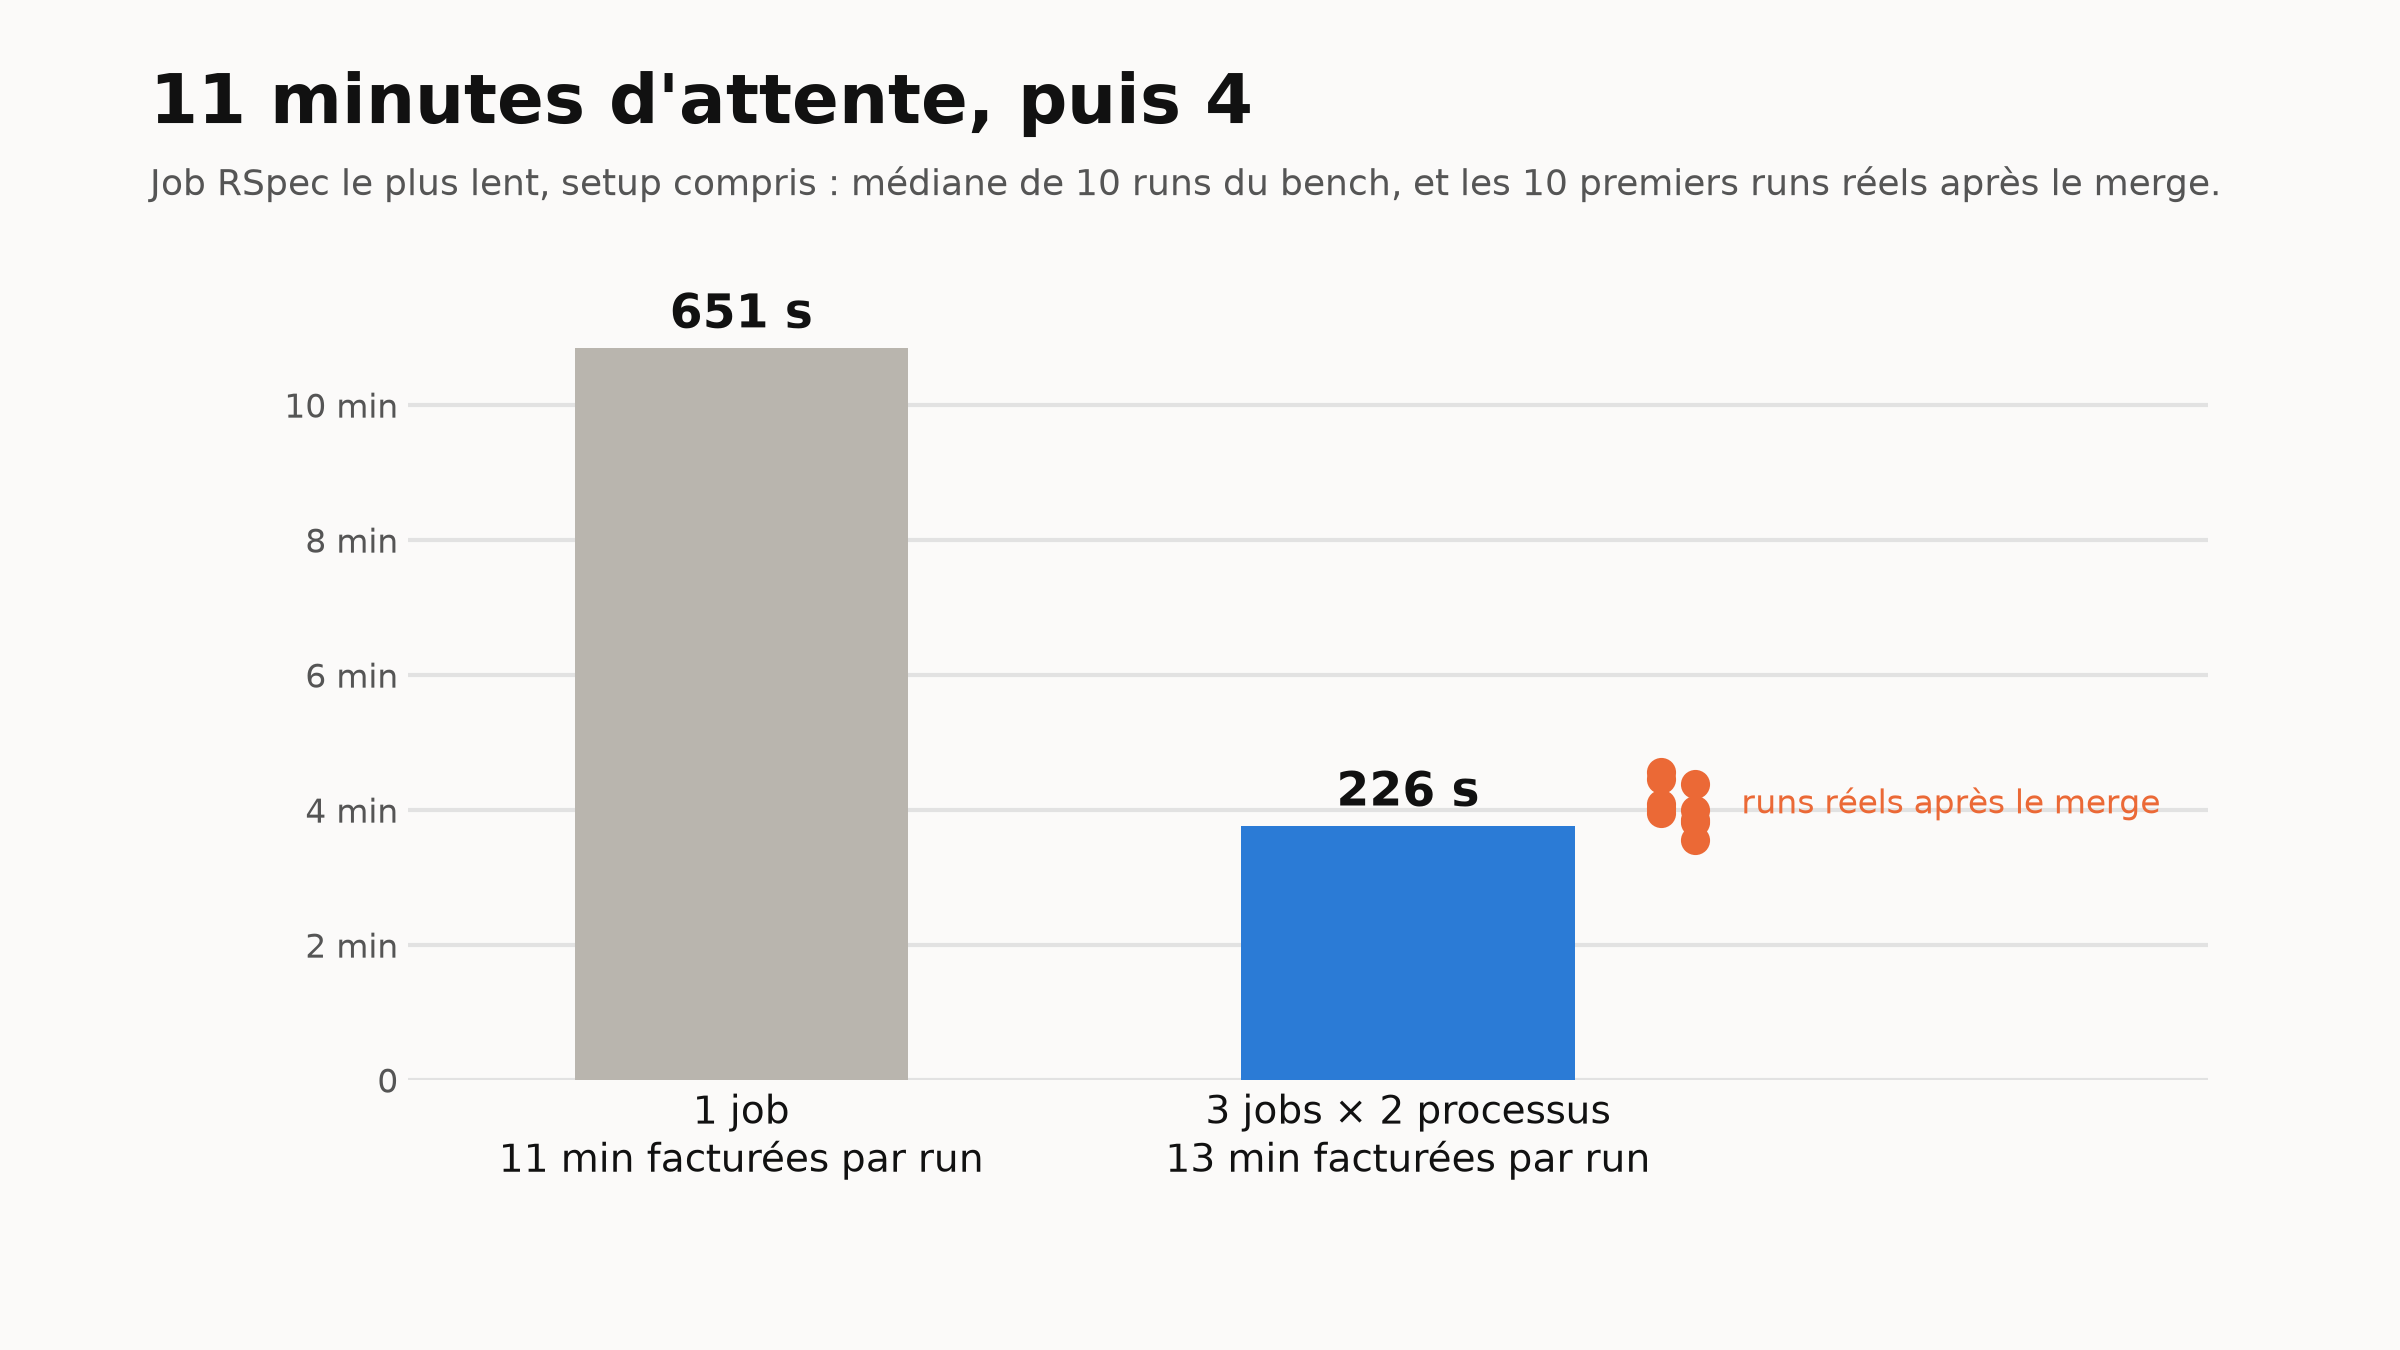
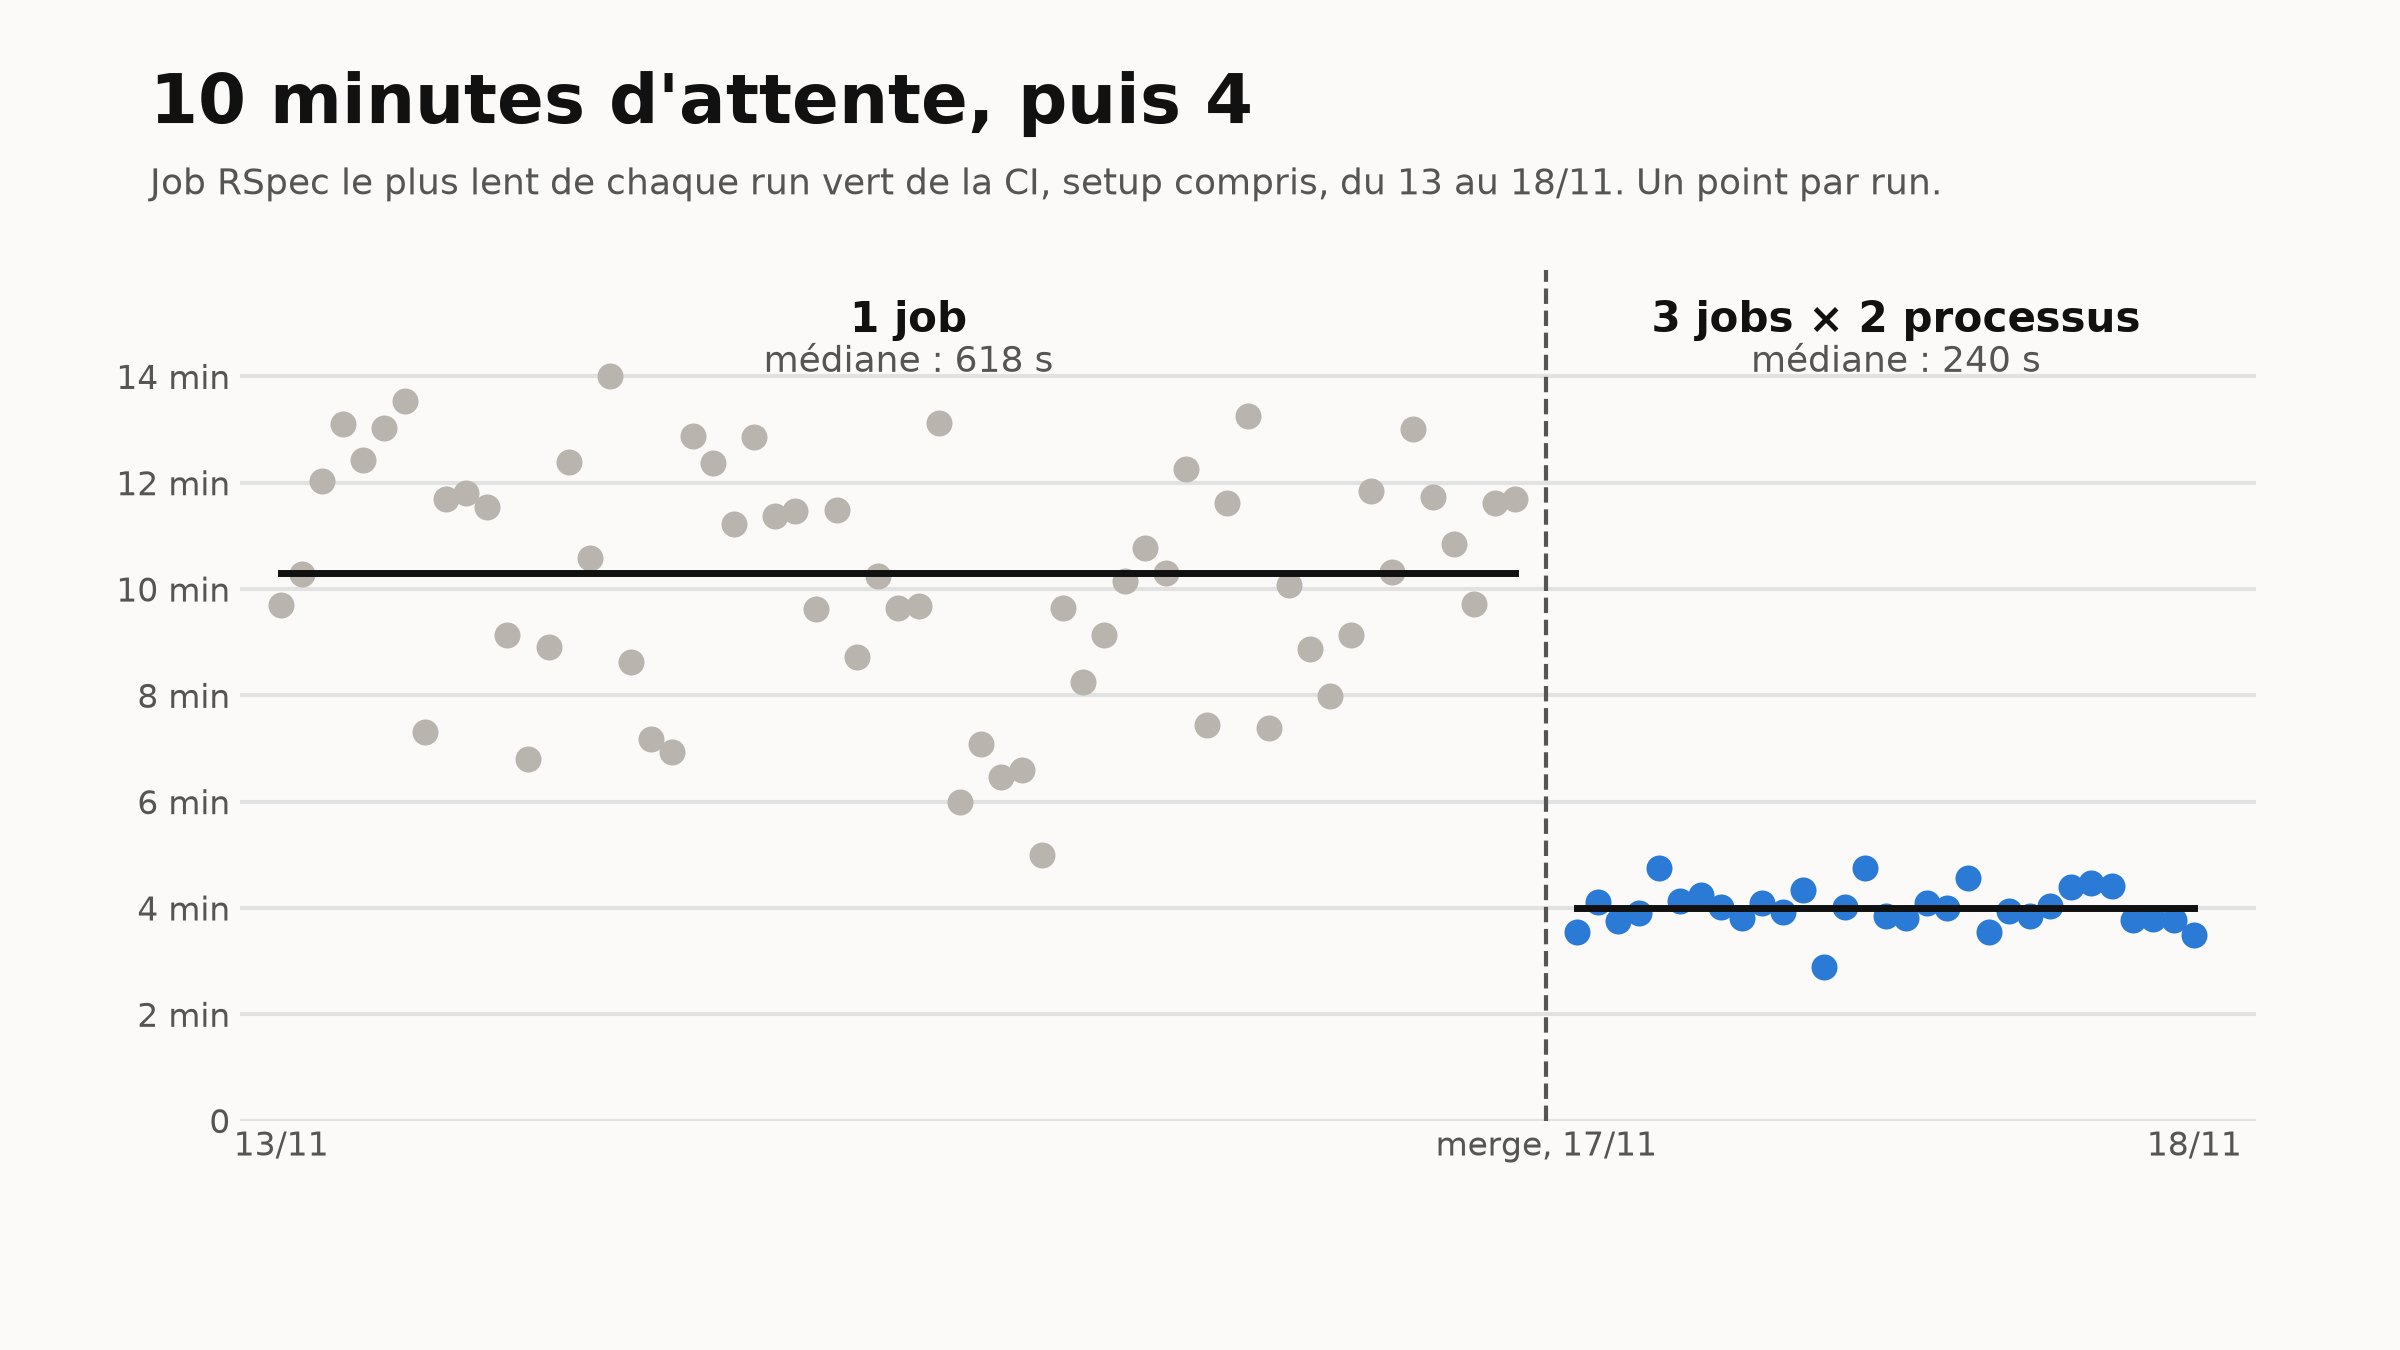
blog: article RSpec, accroche, vrais runs, découpage par durée

diff --git a/content/blog/accelerer-rspec-sur-github-actions-paralleliser-puis-alleger-les-specs/fr.md b/content/blog/accelerer-rspec-sur-github-actions-paralleliser-puis-alleger-les-specs/fr.md
@@ -2,18 +2,18 @@
 title: "Accélérer RSpec sur GitHub Actions : paralléliser, puis alléger les specs"
 slug: accelerer-rspec-sur-github-actions-paralleliser-puis-alleger-les-specs
 author: "Nicolas Rouanne"
-excerpt: "La suite RSpec d'un de nos produits prenait 11 minutes par PR. Répartie sur 3 jobs de 2 processus, elle en prend 4, pour 2 minutes facturées de plus. Et les conventions de specs en cours la réduisent encore de 45 %."
+excerpt: "Sur un de nos produits, chaque PR attendait RSpec 10 minutes. Répartie sur 3 jobs de 2 processus, la suite en prend 4, pour 2 minutes facturées de plus. Et des specs plus légères la réduisent encore de 45 %."
 ---
 
-Dans [Ne lancer que les tests du projet modifié](/blog/ne-lancer-que-les-tests-du-projet-modifie-sans-perdre-les-checks-requis), on avait arrêté de lancer RSpec sur les PR qui ne touchent pas l'API. Mais les trois quarts des PR la touchent, et pour elles, RSpec tournait toujours sur un seul job : 11 minutes d'attente.
+Sur un de nos produits, une PR qui touche l'API attendait RSpec 10 minutes. C'est assez pour ouvrir autre chose, et perdre le fil de sa PR.
 
-On a fait deux choses : répartir la suite sur plusieurs runners (mergé), et écrire des specs qui coûtent moins cher (en cours).
+Dans [Ne lancer que les tests du projet modifié](/blog/ne-lancer-que-les-tests-du-projet-modifie-sans-perdre-les-checks-requis), on avait déjà arrêté de lancer les tests des parties du code qu'une PR ne touche pas. On a continué en deux étapes. D'abord, répartir la suite sur plusieurs runners : la CI fait le même travail, mais en parallèle, donc on attend moins. Ensuite, alléger les specs elles-mêmes, pour qu'il y ait moins de travail tout court.
 
-![Temps du job RSpec le plus lent, avec un job puis avec 3 jobs de 2 processus](attente-fr.png "De 651 s à 226 s, pour 2 minutes facturées de plus par run.")
+![Job RSpec le plus lent de chaque run, avec un job puis avec 3 jobs de 2 processus](attente-fr.png "De 618 s à 240 s en médiane, pour 2 minutes facturées de plus par run.")
 
-## Une suite, 3 jobs, 6 processus
+## Paralléliser : 3 jobs, 6 processus
 
-On utilise [`parallel_tests`](https://github.com/grosser/parallel_tests). Il coupe la suite en 6 groupes de fichiers. Chaque job de la matrice en prend 2, un par vCPU du runner, et chaque processus a sa propre base de test.
+On utilise [`parallel_tests`](https://github.com/grosser/parallel_tests). Il coupe la suite en 6 groupes de fichiers. Chaque job de la matrice en prend 2, un par vCPU du runner.
 
 ![Le job changes, les 3 jobs de 2 processus, et le check requis RSpec Tests](decoupage-fr.png "Le check requis ne change pas : il attend les 3 jobs et assemble la couverture.")
 
@@ -25,6 +25,7 @@ steps:
   - name: Prepare database
     run: |
       bin/rails db:schema:load
+      # la base du processus 2, copiée depuis celle du processus 1
       psql "$POSTGRES_URL" -c "CREATE DATABASE app_test2 TEMPLATE app_test"
 
   - name: Run RSpec
@@ -33,17 +34,17 @@ steps:
         --group-by ${{ inputs.runtime-log-run && 'runtime' || 'filesize' }} spec
 ```
 
-La deuxième base est clonée depuis la première (`TEMPLATE`) : le schéma n'est chargé qu'une fois. `database.yml` ajoute `TEST_ENV_NUMBER` au nom de la base, et chaque processus prend la sienne.
+Chaque processus a sa propre base de test : `database.yml` ajoute `TEST_ENV_NUMBER` à son nom.
 
-## Le même découpage dans les 3 jobs
+## Des groupes de même durée
 
-Pour que les groupes durent à peu près autant, `parallel_tests` a besoin du temps de chaque fichier. Chaque run vert de `main` publie ce log, et les PR découpent leur suite avec. Sans log, le découpage se fait par taille de fichier.
+C'est le job le plus lent qui fixe l'attente, donc on veut que les 6 groupes durent à peu près autant. Chaque run vert de `main` enregistre le temps de chaque fichier de spec dans un log, et `parallel_tests` s'en sert pour faire des groupes de durée égale. Sans log, il découpe par taille de fichier, ce qui est moins juste.
 
-Mais si deux jobs ne lisent pas le même log, ils ne découpent pas pareil : des fichiers ne tournent nulle part, et la CI reste verte.
+Pour que les 3 jobs découpent pareil, ils doivent lire le log du même run de `main`. Si un job en prend un autre, des fichiers ne tournent nulle part, et la CI reste verte.
 
 ![Chaque job cherche le log, ou le job changes le cherche une fois](log-fr.png "Une PR qui publie son log au mauvais moment suffit à décaler un job.")
 
-Le job `changes`, qui tourne déjà avant les tests, cherche donc le log une seule fois et passe le numéro du run aux 3 jobs :
+Le job `changes`, qui tourne déjà avant les tests, choisit donc ce run une seule fois et passe son numéro aux 3 jobs :
 
 ```yaml
 - name: Find main's RSpec runtime log
@@ -59,9 +60,9 @@ GitHub facture chaque job arrondi à la minute supérieure, et chaque job paie s
 
 ![Job le plus lent selon les minutes facturées, pour 8 configurations](configs-fr.png "3 × 2 est le dernier palier qui rapporte plus de 20 s par minute.")
 
-Deux choses à retenir. 4 jobs d'un processus coûtent plus cher que 3 jobs de 2, et finissent plus tard : le deuxième vCPU ne sert à rien. Et au-delà de 3 jobs, l'arrondi à la minute se joue à quelques secondes : un vrai run en 5 × 2 a été facturé 18 minutes au lieu des 15 prévues.
+Passer de 3 × 2 à 8 × 2 ferait gagner 88 s d'attente, pour 6 minutes facturées de plus à chaque run : +46 % sur la facture RSpec. Au-delà de 3 jobs, l'arrondi à la minute se joue en plus à quelques secondes : un vrai run en 5 × 2 a été facturé 18 minutes au lieu des 15 prévues.
 
-Sur les 10 premiers runs après le merge, le job le plus lent a fini entre 213 et 274 s. Deux tests instables qui existaient déjà sur `main` sont devenus plus fréquents avec une base par processus (des ids plus bas) : ils sont corrigés.
+Et 4 jobs d'un processus coûtent plus cher que 3 jobs de 2, et finissent plus tard : le deuxième vCPU de chaque runner ne sert à rien.
 
 ## Alléger les specs
 
@@ -85,7 +86,7 @@ La relecture humaine a quand même trouvé des tests verts pour une mauvaise rai
 
 ![Temps pour créer un user admin selon la méthode](factory-fr.png "La factory donnait un compte à chaque user, même aux admins qui n'en ont pas en production.")
 
-On a donc fermé la PR, et on reprend autrement : une PR par règle, relue en quelques minutes. Une règle vérifiable automatiquement devient une règle RuboCop ; les autres vont dans le knowledge des agents, en phrases simples. Et les users de test sont créés comme en production. Rien n'est encore mergé de ce côté.
+On applique donc les conventions une règle à la fois : une PR par règle, relue en quelques minutes. Une règle vérifiable automatiquement devient une règle RuboCop ; les autres vont dans le knowledge des agents, en phrases simples. Et les users de test sont créés comme en production.
 
 Le découpage en 3 × 2 n'aura pas à changer : sur la suite allégée, le même bench donnait aussi 3 × 2.
 

diff --git a/content/blog/accelerer-rspec-sur-github-actions-paralleliser-puis-alleger-les-specs/en.md b/content/blog/accelerer-rspec-sur-github-actions-paralleliser-puis-alleger-les-specs/en.md
@@ -2,18 +2,18 @@
 title: "Speeding up RSpec on GitHub Actions: parallelize, then slim down the specs"
 slug: speeding-up-rspec-on-github-actions-parallelize-then-slim-down-the-specs
 author: "Nicolas Rouanne"
-excerpt: "The RSpec suite of one of our products took 11 minutes per PR. Split across 3 jobs of 2 processes, it takes 4, for 2 more billed minutes. And the spec conventions in progress cut it by another 45%."
+excerpt: "On one of our products, every PR waited 10 minutes for RSpec. Split across 3 jobs of 2 processes, the suite takes 4, for 2 more billed minutes. And lighter specs cut it by another 45%."
 ---
 
-In [Running only the changed project's tests](/en/blog/running-only-the-changed-project-s-tests-without-losing-required-checks), we stopped running RSpec on PRs that don't touch the API. But three quarters of PRs do touch it, and for them RSpec still ran in a single job: 11 minutes of waiting.
+On one of our products, a PR that touched the API waited 10 minutes for RSpec. That's long enough to open something else, and lose track of the PR.
 
-We did two things: split the suite across several runners (merged), and write specs that cost less (in progress).
+In [Running only the changed project's tests](/en/blog/running-only-the-changed-project-s-tests-without-losing-required-checks), we had already stopped running the tests of the parts of the code a PR doesn't touch. We went on in two steps. First, split the suite across several runners: CI does the same work, but in parallel, so we wait less. Then, slim down the specs themselves, so there's less work, period.
 
-![Slowest RSpec job, with one job and with 3 jobs of 2 processes](attente-en.png "From 651 s to 226 s, for 2 more billed minutes per run.")
+![Slowest RSpec job of each run, with one job then with 3 jobs of 2 processes](attente-en.png "From 618 s to 240 s median, for 2 more billed minutes per run.")
 
-## One suite, 3 jobs, 6 processes
+## Parallelizing: 3 jobs, 6 processes
 
-We use [`parallel_tests`](https://github.com/grosser/parallel_tests). It cuts the suite into 6 groups of files. Each job of the matrix takes 2, one per runner vCPU, and each process gets its own test database.
+We use [`parallel_tests`](https://github.com/grosser/parallel_tests). It cuts the suite into 6 groups of files. Each job of the matrix takes 2, one per runner vCPU.
 
 ![The changes job, the 3 jobs of 2 processes, and the required RSpec Tests check](decoupage-en.png "The required check doesn't change: it waits for the 3 jobs and merges the coverage.")
 
@@ -25,6 +25,7 @@ steps:
   - name: Prepare database
     run: |
       bin/rails db:schema:load
+      # process 2's database, copied from process 1's
       psql "$POSTGRES_URL" -c "CREATE DATABASE app_test2 TEMPLATE app_test"
 
   - name: Run RSpec
@@ -33,17 +34,17 @@ steps:
         --group-by ${{ inputs.runtime-log-run && 'runtime' || 'filesize' }} spec
 ```
 
-The second database is cloned from the first (`TEMPLATE`), so the schema is loaded only once. `database.yml` appends `TEST_ENV_NUMBER` to the database name, and each process gets its own.
+Each process has its own test database: `database.yml` appends `TEST_ENV_NUMBER` to its name.
 
-## The same split in all 3 jobs
+## Groups of the same duration
 
-For the groups to take about the same time, `parallel_tests` needs each file's duration. Every green run on `main` publishes that log, and PRs split their suite with it. Without a log, the split goes by file size.
+The slowest job sets the wait, so we want the 6 groups to take about as long as each other. Every green run on `main` records each spec file's duration in a log, and `parallel_tests` uses it to build groups of equal duration. Without a log, it splits by file size, which is less accurate.
 
-But if two jobs don't read the same log, they don't split the same way: some files run nowhere, and CI stays green.
+For the 3 jobs to split the same way, they must read the log of the same `main` run. If one job picks another, some files run nowhere, and CI stays green.
 
 ![Each job looks up the log, or the changes job looks it up once](log-en.png "A PR publishing its log at the wrong moment is enough to shift one job.")
 
-So the `changes` job, which already runs before the tests, looks up the log once and passes the run id to the 3 jobs:
+So the `changes` job, which already runs before the tests, picks that run once and passes its id to the 3 jobs:
 
 ```yaml
 - name: Find main's RSpec runtime log
@@ -59,9 +60,9 @@ GitHub bills each job rounded up to the minute, and each job pays its setup (abo
 
 ![Slowest job against billed minutes, for 8 configurations](configs-en.png "3 × 2 is the last step that buys more than 20 s per minute.")
 
-Two takeaways. 4 jobs of one process cost more than 3 jobs of 2, and finish later: the second vCPU sits idle. And beyond 3 jobs, rounding to the minute comes down to a few seconds: a real 5 × 2 run was billed 18 minutes instead of the expected 15.
+Going from 3 × 2 to 8 × 2 would save 88 s of waiting, for 6 more billed minutes on every run: +46% on the RSpec bill. Beyond 3 jobs, rounding to the minute also comes down to a few seconds: a real 5 × 2 run was billed 18 minutes instead of the expected 15.
 
-Over the first 10 runs after the merge, the slowest job finished between 213 and 274 s. Two flaky tests that already existed on `main` became more frequent with one database per process (lower ids): they're fixed.
+And 4 jobs of one process cost more than 3 jobs of 2, and finish later: each runner's second vCPU sits idle.
 
 ## Slimming down the specs
 
@@ -85,7 +86,7 @@ Human review still found tests that were green for the wrong reason: a `build_st
 
 ![Time to create an admin user, by method](factory-en.png "The factory gave every user an account, even admins, who have none in production.")
 
-So we closed the PR, and we're taking it another way: one PR per rule, reviewed in a few minutes. A rule that can be checked automatically becomes a RuboCop rule; the others go into the agents' knowledge, in plain sentences. And test users are created as in production. Nothing is merged on that side yet.
+So we apply the conventions one rule at a time: one PR per rule, reviewed in a few minutes. A rule that can be checked automatically becomes a RuboCop rule; the others go into the agents' knowledge, in plain sentences. And test users are created as in production.
 
 The 3 × 2 split won't have to change: on the slimmed-down suite, the same bench also picked 3 × 2.
 
